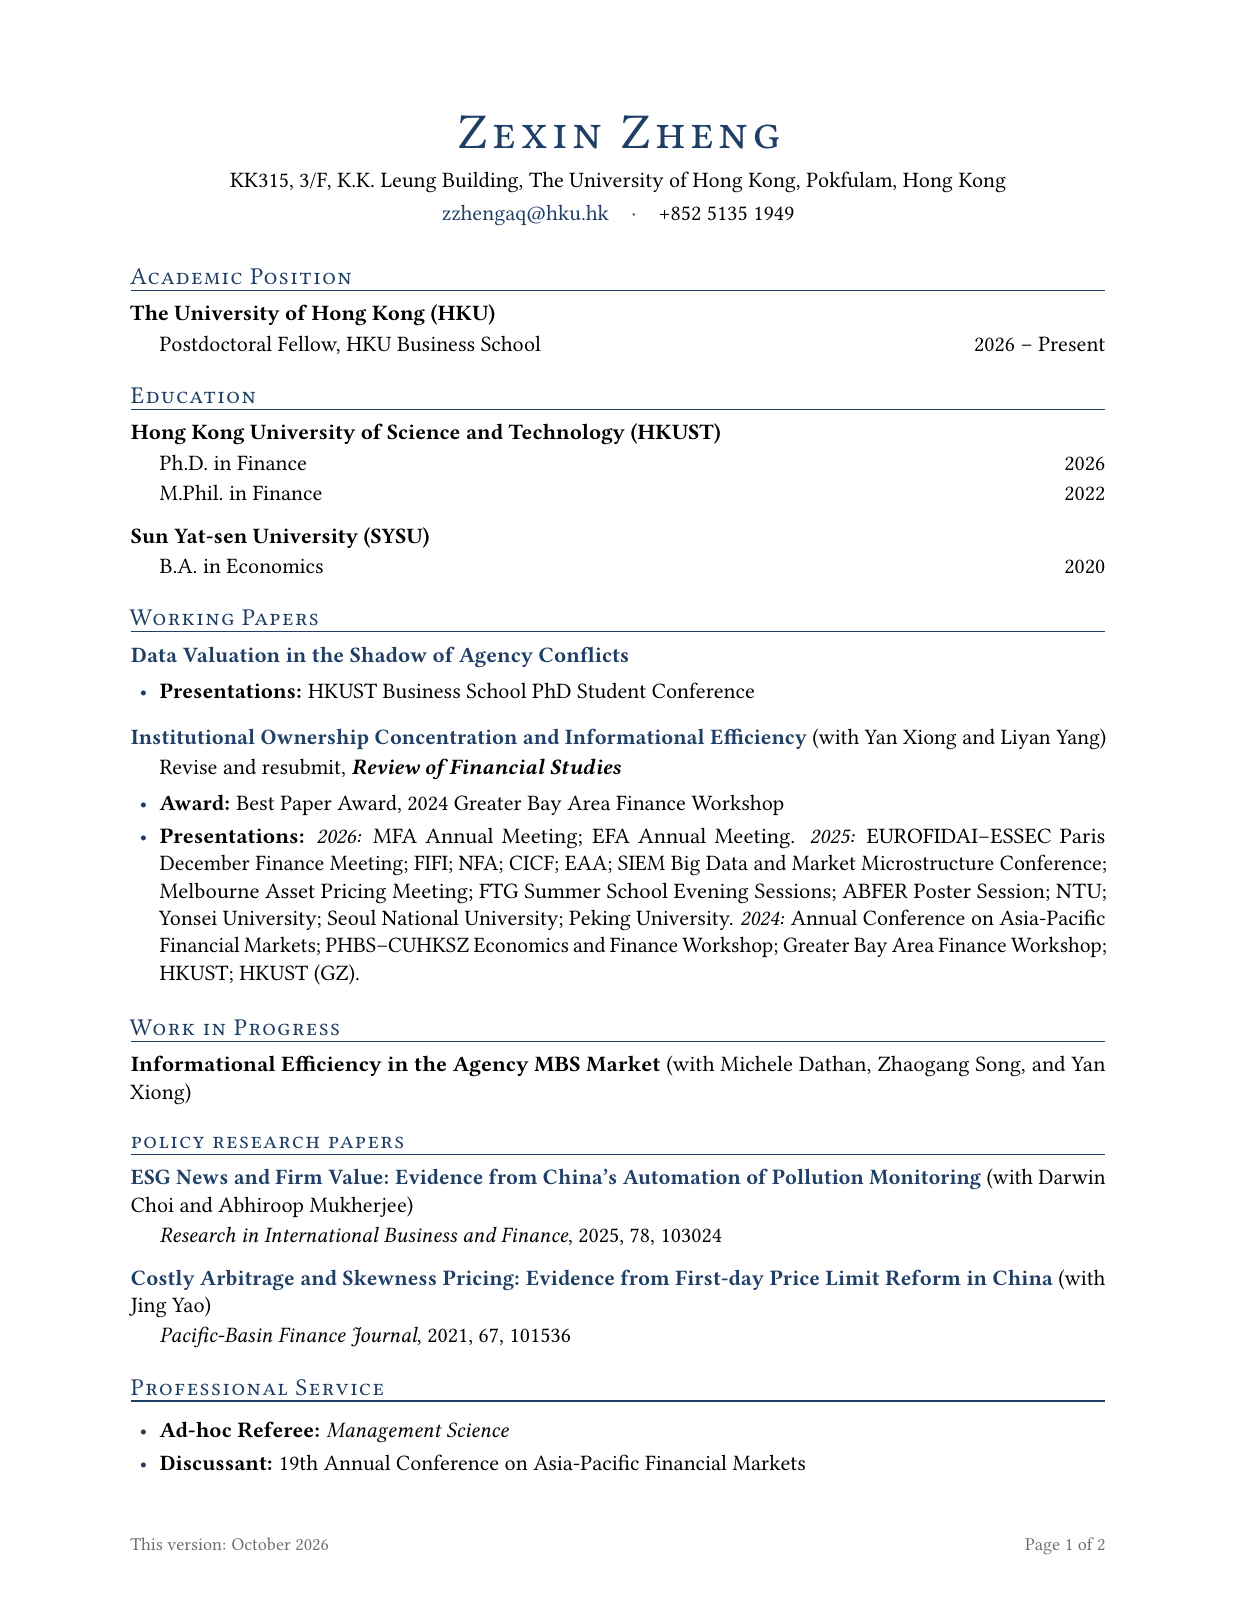
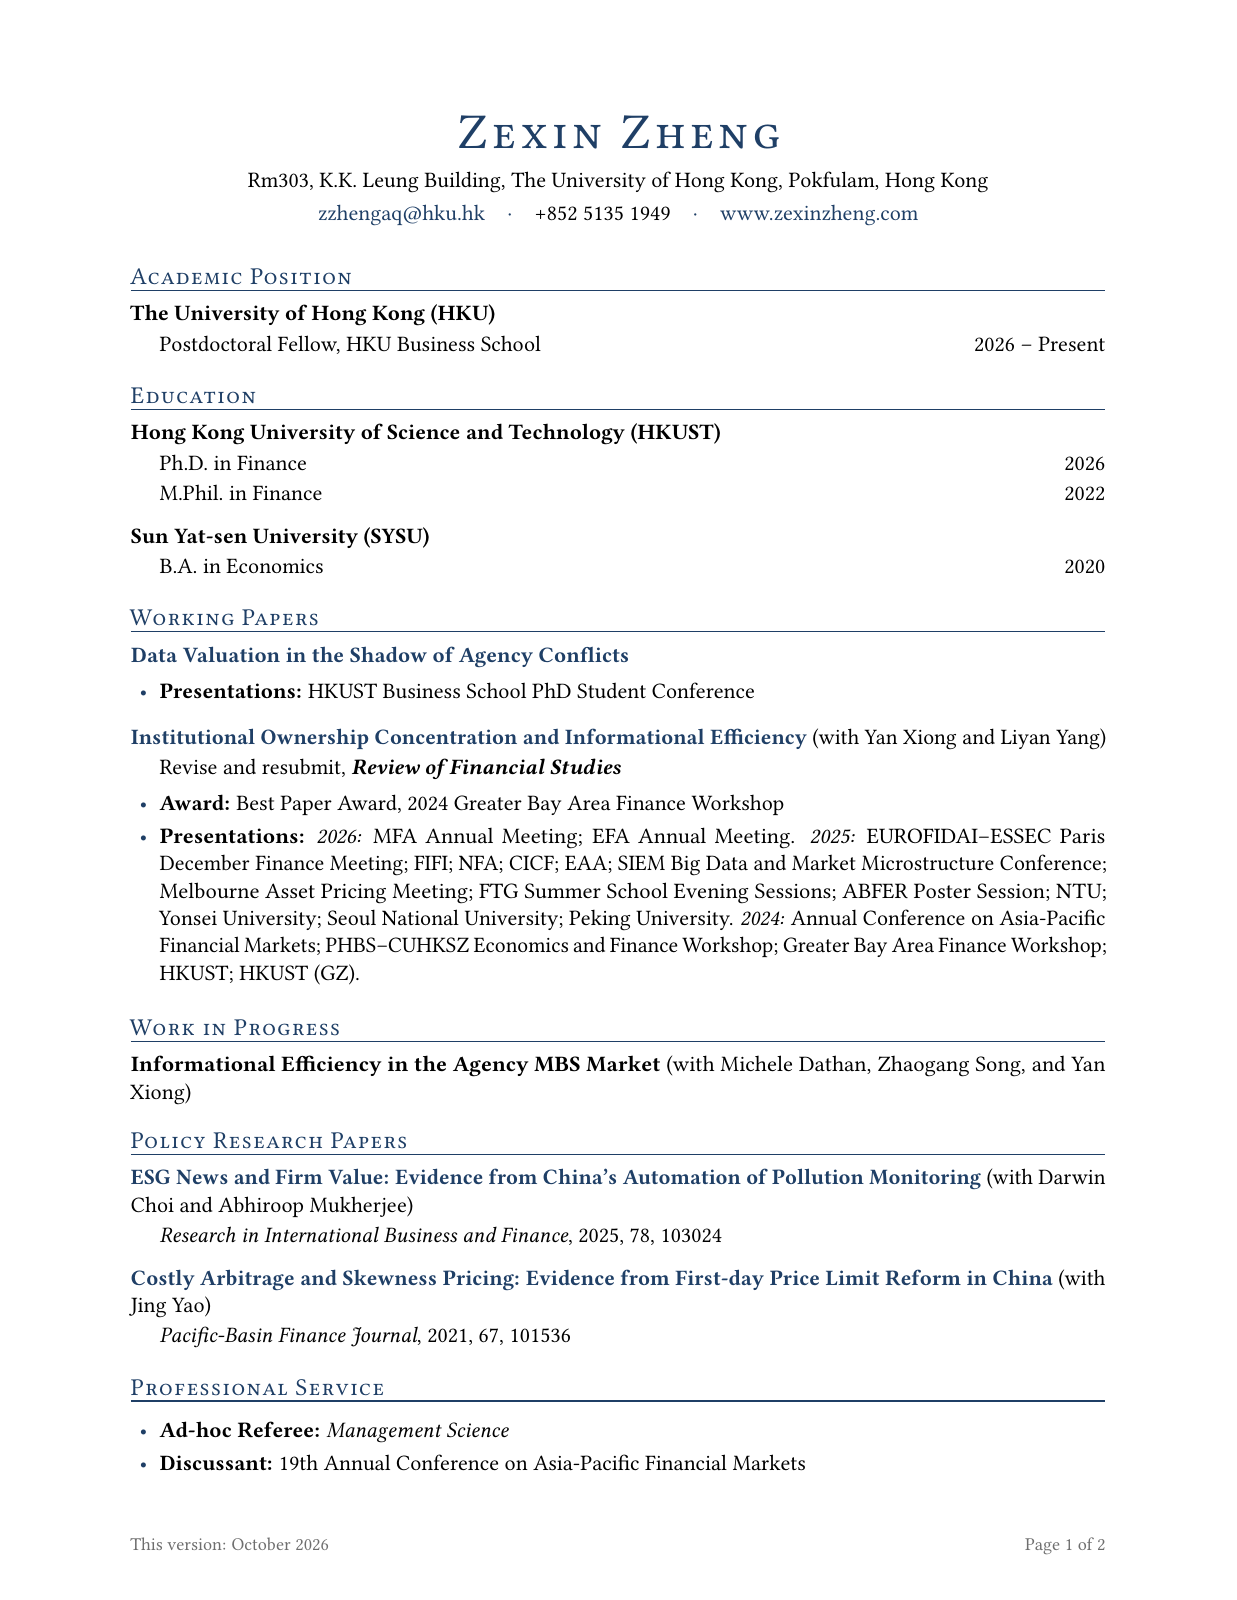
updated CV

Changed region(s): [[0.1843, 0.0938, 0.7987, 0.1562], [0.1536, 0.6875, 0.3379, 0.7188]]

diff --git a/styles.css b/styles.css
@@ -91,6 +91,9 @@ main:focus { outline: none; }
   .contact-list li + li { margin-top: 0; }
   .contact-list a { min-height: 36px; align-items: center; }
   main { border-top: 1px solid var(--rule); padding-top: 29px; }
+  /* On mobile, show the profile on Home and go straight to content elsewhere. */
+  .page-cv .profile, .page-research .profile { display: none; }
+  .page-cv main, .page-research main { border-top: 0; padding-top: 0; }
   .welcome { font-size: 25px; margin-bottom: 22px; }
   .biography { font-size: 18px; line-height: 1.75; }
   .biography p { margin-bottom: 22px; }
